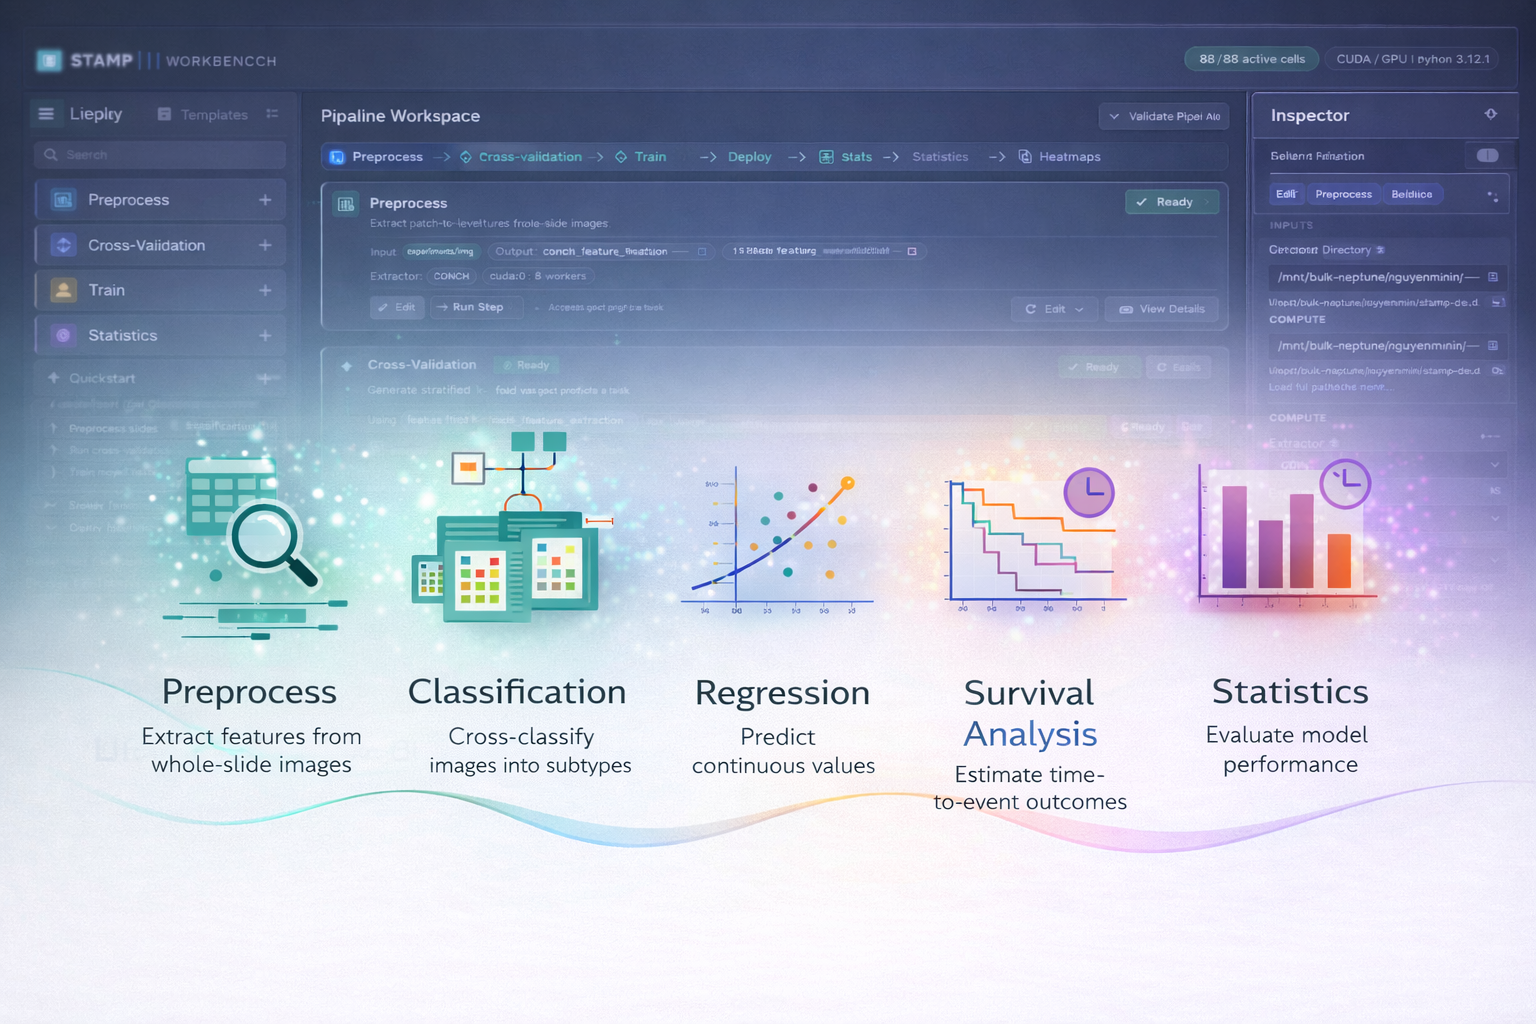
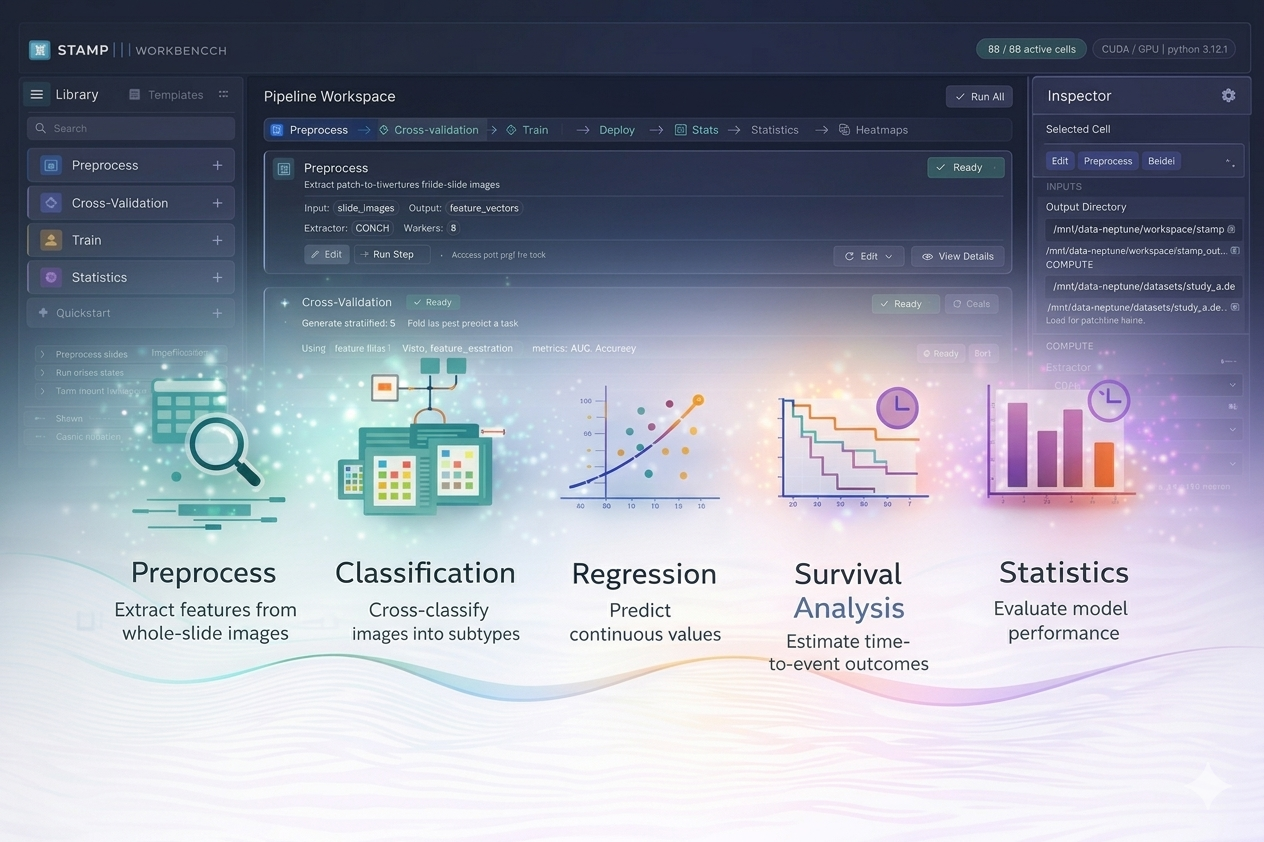
update

diff --git a/README.md b/README.md
@@ -32,9 +32,9 @@ uv pip install git+https://github.com/mducducd/STAMP-Workbench.git
 **3. Launch:**
 
 ```bash
-stamp workbench
+stamp-workbench
 # or with custom host/port:
-stamp workbench --host 0.0.0.0 --port 8010
+stamp-workbench --host 0.0.0.0 --port 8010
 ```
 
 Then open the printed URL in your browser.
@@ -66,7 +66,7 @@ The recommended user flow remains:
 
 ```bash
 uv pip install git+https://github.com/mducducd/STAMP-Workbench.git
-stamp workbench
+stamp-workbench
 ```
 
 ---